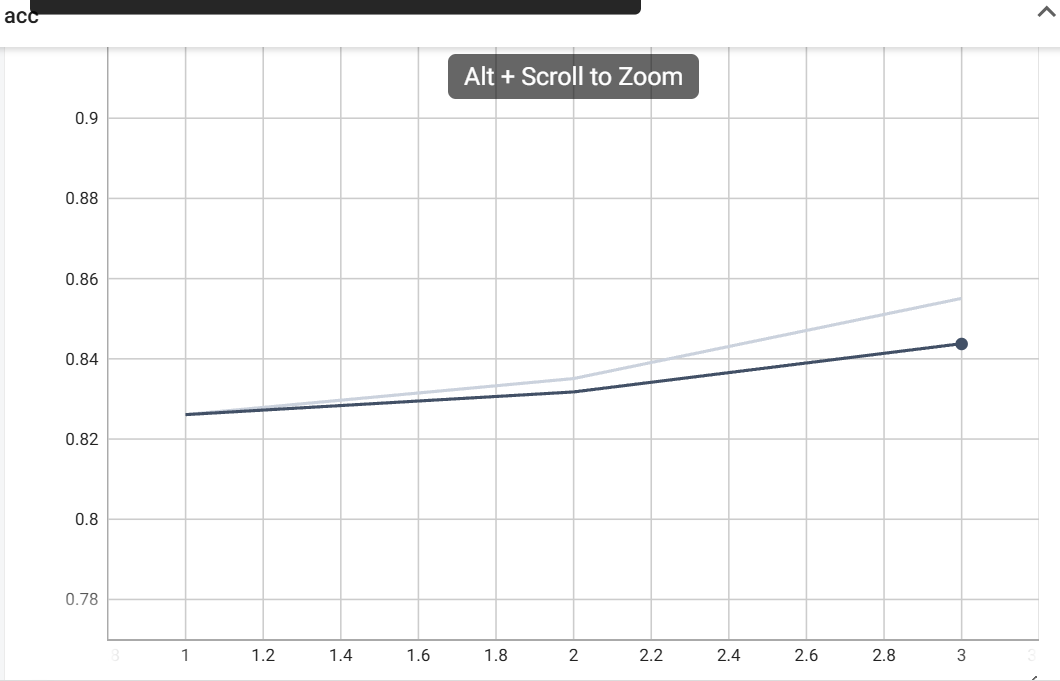
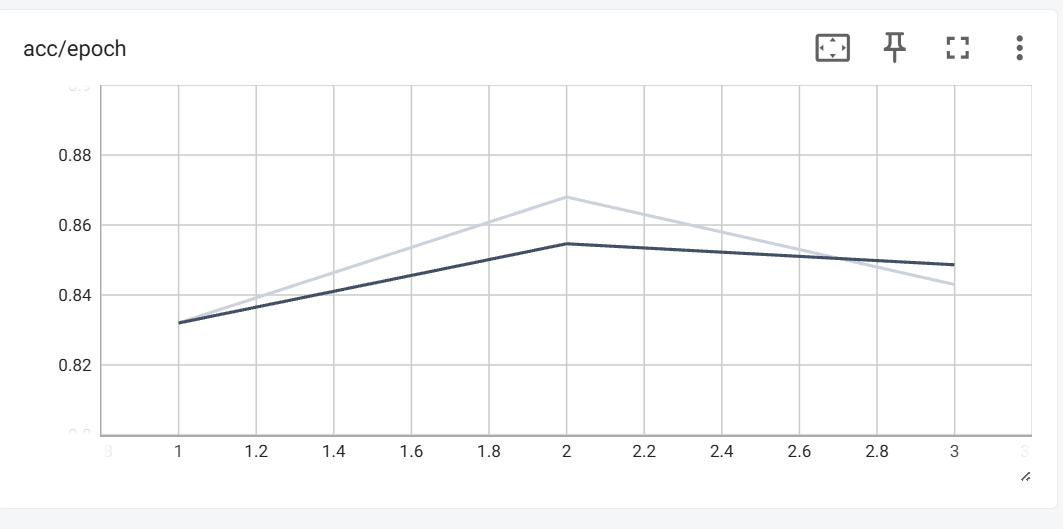
Add files via upload

diff --git a/train.py b/train.py
@@ -1,108 +1,69 @@
+import json
 import torch
-from transformers import AutoTokenizer,AutoModelForSequenceClassification
-from torch.utils.data import Dataset,DataLoader
+import dataset,model_m
+from torch.utils.data import DataLoader
 from torch.utils.tensorboard import SummaryWriter
-# 处理数据，提取出标题或关键词和分类id
-def read_data(root):
-    with open(root,'r',encoding='utf-8') as f:
-        items = []  # 存放文本和分类
-        for line in f:
-            line = line.strip()
-            if not line:
-                continue
-            id,code,name,title,key = line.split('_!_',maxsplit=4)
-            code = int(code) - 100    #训练的时候需要从0开始
-            # 判断取title还是key
-            if key :
-                text = key+','+title
-            else:
-                text = title
-            # 塞进items
-            items.append({
-                'text':text,
-                'label':code
-            })
-    return items
-# 重写dataset方法。
-class MyDataset(Dataset):
-    def __init__(self,root):
-        super().__init__()
-        self.items = read_data(root)
-    def __len__(self):
-        return len(self.items)
-
-    def __getitem__(self,index):
-        return self.items[index]
-# 将文本分词编码
-tokenizer = AutoTokenizer.from_pretrained("bert-base-chinese")
-def collate_fn(items):
-    texts = [x['text'] for x in items]
-    labels = [x['label'] for x in items]
-    out = tokenizer(
-        texts,
-        truncation=True,
-        padding=True,
-        max_length=512,
-        return_tensors="pt"
-    )
-    out["labels"] = torch.tensor(labels, dtype=torch.long)
-    return out
-if __name__ == "__main__":
-    writer = SummaryWriter('./log')
-    train = MyDataset('./data/train_3k.txt')
-    dev = MyDataset('./data/dev_1k.txt')
-    model = AutoModelForSequenceClassification.from_pretrained(
-        "bert-base-chinese",
-        num_labels=17
-    )
-    device = torch.device('cuda' if torch.cuda.is_available() else 'cpu')
-    model.to(device)
-    # 加载数据集
-    train_loader = DataLoader(train,12,shuffle=True,collate_fn=collate_fn)
-    dev_loader = DataLoader(dev,12,shuffle=False,collate_fn=collate_fn)
-
-    # 参数
-    optim = torch.optim.AdamW(model.parameters(),lr = 1e-5)
-    loss_fn = torch.nn.CrossEntropyLoss()
-    epoch = 3
-    best_acc = 0.0
-    # 验证集
-    def val():
-        model.eval()
-        total_correct = 0   #预测正确总数
-        total_num = 0
-        with torch.no_grad():
-            for batch in dev_loader:
-                batch = {k: v.to(device) for k, v in batch.items()}
-                output = model(**batch)
-                logit = output.logits
-                per = torch.argmax(logit,dim =-1)
-                total_correct += (per == batch["labels"]).sum().item()
-                total_num += batch["labels"].size(0)
-        acc = total_correct/total_num
+with open("./demo_config.json",'r',encoding='utf-8') as f:
+    demo_config = json.load(f)
+def yz(loader, model, device):
+    model.eval()
+    total_correct = 0
+    total_num = 0
+    with torch.no_grad():
+        for batch in loader:
+            batch = {k: v.to(device) for k, v in batch.items()}
+            output = model(**batch)
+            per = torch.argmax(output, dim=-1)
+            total_correct += (per == batch["labels"]).sum().item()
+            total_num += batch["labels"].size(0)
+        acc = total_correct / total_num
         model.train()
         return acc
 
-    for i in range(epoch):
-        model.train()
-        total_train_loss = 0.0
+def xl(loader):
+    model.train()
+    total_train_loss = 0.0
+    for step, batch in enumerate(loader):
+        batch = {k: v.to(device) for k, v in batch.items()}
+        output = model(**batch)
+        loss = loss_fn(output, batch['labels'])
+        optim.zero_grad()
+        loss.backward()
+        optim.step()
+        total_train_loss += loss.item()
+    aver_loss = total_train_loss / len(loader)
+    return aver_loss
 
-        for step,batch in enumerate(train_loader):
-            batch = {k: v.to(device) for k, v in batch.items()}
-            output = model(**batch)
-            logit = output.logits
-            loss = loss_fn(logit,batch['labels'])
-            optim.zero_grad()
-            loss.backward()
-            optim.step()
-            total_train_loss += loss.item()
-        aver_loss = total_train_loss/len(train_loader)
-        writer.add_scalar('aver/epoch',aver_loss,i+1)
-        acc = val()
-        writer.add_scalar('acc/epoch',acc,i+1)
-        print(f"\n==== epoch {i + 1} finish, dev acc:{acc:.4f} ====\n")
-        if acc>best_acc:
-            best_acc = acc
-            torch.save(model.state_dict(), './best_model.pth')
-            print(f">>> 更新最佳权重，best_acc = {best_acc:.4f}，保存至 {'./best_model.pth'}\n")
-    writer.close()
+# 加载数据集
+if __name__ == "__main__":
+    writer = SummaryWriter('./log')
+    train = dataset.Mydata(demo_config['train_path'])
+    train_loader = DataLoader(train,batch_size = demo_config['batch_size'],
+                                  shuffle = True,collate_fn = model_m.collate_fn)
+    dev = dataset.Mydata(demo_config['dev_path'])
+    dev_loader = DataLoader(dev,batch_size = demo_config['batch_size'],
+                                  shuffle = False,collate_fn = model_m.collate_fn)
+    device = torch.device('cuda' if torch.cuda.is_available() else 'cpu')
+
+    model = model_m.Mymodel(num_labels=demo_config["num_labels"])
+    model.to(device)
+    optim = torch.optim.AdamW(model.parameters(),lr = demo_config['learning_rate'])
+    loss_fn = torch.nn.CrossEntropyLoss()
+    epoch = demo_config["epoch"]
+    best_acc = 0.0
+    for e in range(epoch):
+        print(f"===== Epoch {e+1}/{epoch} =====")
+        avg_loss = xl(train_loader)
+        dev_acc = yz(dev_loader, model, device)
+        writer.add_scalar('aver/epoch', avg_loss, e + 1)
+        writer.add_scalar('acc/epoch', dev_acc, e + 1)
+        print(f"train_loss:{avg_loss:.4f} | dev_acc:{dev_acc:.4f}")
+        # 保存最优模型
+        if dev_acc > best_acc:
+            best_acc = dev_acc
+            torch.save(model.state_dict(),"./best_model.pth")
+            print(f"保存最优模型, best_acc:{best_acc:.4f}")
+    print("训练结束，最优验证集精度：", best_acc)
+
+
+

diff --git a/test.py b/test.py
@@ -1,28 +1,15 @@
+import json
 import torch
-from transformers import AutoModelForSequenceClassification
-from train import MyDataset,collate_fn
+import dataset,model_m,train
 from torch.utils.data import DataLoader
-test = MyDataset('./data/test_1k.txt')
-test_loader = DataLoader(test,8,shuffle=False,collate_fn=collate_fn)
-
+with open("./demo_config.json",'r',encoding='utf-8') as f:
+    demo_config = json.load(f)
+test = dataset.Mydata(demo_config['test_path'])
+test_loader = DataLoader(test,batch_size = demo_config['batch_size'],
+                              shuffle = False,collate_fn = model_m.collate_fn)
 device = torch.device('cuda' if torch.cuda.is_available() else 'cpu')
-
-model = AutoModelForSequenceClassification.from_pretrained(
-    "bert-base-chinese",
-    num_labels=17)
-model.to(device)
+model = model_m.Mymodel(num_labels=demo_config["num_labels"])
 model.load_state_dict(torch.load("./best_model.pth", map_location=device))
-model.eval()
-
-total_correct = 0
-total_num = 0
-with torch.no_grad():
-    for batch in test_loader:
-        batch = {k: v.to(device) for k, v in batch.items()}
-        output = model(**batch)
-        logit = output.logits
-        per = torch.argmax(logit, dim=-1)
-        total_correct += (per == batch["labels"]).sum().item()
-        total_num += batch["labels"].size(0)
-    acc = total_correct / total_num
-print(f"test_acc: {acc:.4f}")
+model.to(device)
+a = train1.yz(test_loader, model, device)
+print(f"dev_acc:{a:.4f}")

diff --git a/model_m.py b/model_m.py
@@ -1,0 +1,42 @@
+import json
+import torch.nn as nn
+import torch
+from transformers import AutoTokenizer, BertModel
+with open("./demo_config.json","r",encoding="utf-8") as f:
+    demo_config = json.load(f)
+tokenizer = AutoTokenizer.from_pretrained(demo_config['model_path'])
+
+def collate_fn(items):
+    text = [x['text'] for x in items]
+    labels = [x['labels'] for x in items]
+    out = tokenizer(
+        text,
+        truncation=True,
+        padding=True,
+        max_length=demo_config["max_length"],
+        return_tensors="pt"
+    )
+    out['labels'] = torch.tensor(labels,dtype=torch.long)
+    return out
+
+class Mymodel(nn.Module):
+    def __init__(self,num_labels):
+        super(Mymodel,self).__init__()
+        self.bert = BertModel.from_pretrained(demo_config['model_path'])
+        num_input = self.bert.config.hidden_size
+        self.liner = nn.Linear(num_input,num_labels)
+
+    def forward(self,input_ids,attention_mask,token_type_ids =None,labels=None):
+        bert_out = self.bert(
+            input_ids = input_ids,
+            attention_mask = attention_mask,
+            token_type_ids = token_type_ids,
+            labels =labels
+        )
+        cls_emb = bert_out.last_hidden_state[:, 0, :]
+        logits = self.liner(cls_emb)
+        return logits
+
+
+
+

diff --git a/dataset.py b/dataset.py
@@ -1,0 +1,33 @@
+from torch.utils.data import Dataset
+# 处理数据
+
+def pro_data(root):
+    items = []
+    with open(root,'r',encoding='utf-8') as f:
+        for line in f:
+            line = line.strip()
+            if not line:
+                continue
+            id,code,name,text,key = line.split('_!_',maxsplit=4)
+            labels = int(code)-100
+            if key:
+                text = key +','+text
+            else:
+                text = text
+            items.append({
+                "text":text,
+                "labels":labels
+            })
+    return items
+
+# 重写dataset方法
+class Mydata(Dataset):
+    def __init__(self,root):
+        super(Mydata,self).__init__()
+        self.items = pro_data(root)
+
+    def __len__(self):
+        return len(self.items)
+
+    def __getitem__(self, index):
+        return self.items[index]
